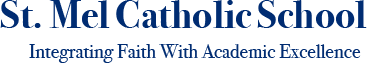
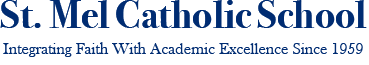
added since 1959” to the tagline (Donna's request)

diff --git a/stmel-webby/output/index_x2.html b/stmel-webby/output/index_x2.html
@@ -83,7 +83,7 @@
 
            
 <div class="header" style="background:url('images/header/home.jpg') no-repeat 0 0;">
-  <div class="address" style="color:#000077;  left:365px;  position:absolute;  text-align:right; font-size:12px;  text-shadow:1px 1px 1px #FFFFFF;  top:175px;">
+  <div class="address" style="color:#000077;  left:362px;  position:absolute;  text-align:right; font-size:12px;  text-shadow:1px 1px 1px #FFFFFF;  top:175px;">
     4745 Pennsylvania Avenue <br/>
     Fair Oaks, CA 95628 <br/>
   </div>
@@ -96,7 +96,7 @@
 <p>
 	We are dedicated to serving our student body and their families by providing an education grounded in the Catholic tradition.  We want our graduates to become valuable members of the greater community by integrating faith with academic excellence.  
 </p>
-<img src="images/WCEA-Webstamp.png" alt="WCEA Accredited School" align="left"/>
+<img src="images/WCEA-Webstamp.png" alt="WCEA Accredited School" align="leftw"/>
 <p>St. Mel Catholic School is accredited by the Western Catholic Educational Association (WCEA).  WCEA accredits Catholic elementary and secondary schools in nine western states (26 (arch) dioceses) and the US Territory of Guam.  WCEA co-accredits and is in partnership with three Regional agencies (WASC, NAAS, NCA CASI) and two private agencies (CAIS and HAIS).   WCEA began in 1957 in San Francisco and has a long and successful history of assisting school improvement through the accreditation process.</p>
 <br style="clear:both"/><br/><br/><br/><br/><br/><br/>
   </div><!-- col col-large end -->

diff --git a/stmel-webby/output/index-countdown.html b/stmel-webby/output/index-countdown.html
@@ -83,7 +83,7 @@
 
            
 <div class="header" style="background:url('images/header/home.jpg') no-repeat 0 0;">
-  <div class="address" style="color:#000077;  left:365px;  position:absolute;  text-align:right; font-size:12px;  text-shadow:1px 1px 1px #FFFFFF;  top:175px;">
+  <div class="address" style="color:#000077;  left:362px;  position:absolute;  text-align:right; font-size:12px;  text-shadow:1px 1px 1px #FFFFFF;  top:175px;">
     4745 Pennsylvania Avenue <br/>
     Fair Oaks, CA 95628 <br/>
   </div>

diff --git a/stmel-webby/output/index.html b/stmel-webby/output/index.html
@@ -83,7 +83,7 @@
 
            
 <div class="header" style="background:url('images/header/home.jpg') no-repeat 0 0;">
-  <div class="address" style="color:#000077;  left:365px;  position:absolute;  text-align:right; font-size:12px;  text-shadow:1px 1px 1px #FFFFFF;  top:175px;">
+  <div class="address" style="color:#000077;  left:362px;  position:absolute;  text-align:right; font-size:12px;  text-shadow:1px 1px 1px #FFFFFF;  top:175px;">
     4745 Pennsylvania Avenue <br/>
     Fair Oaks, CA 95628 <br/>
   </div>
